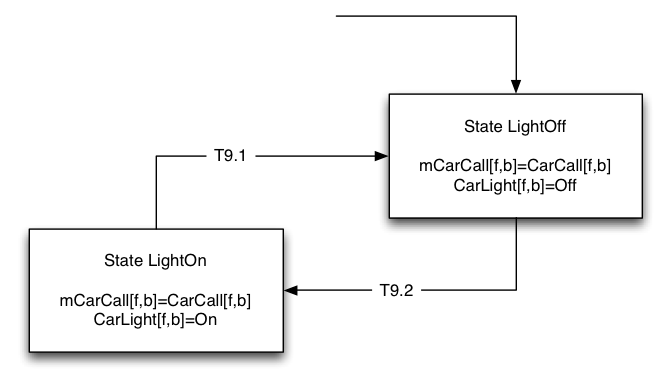
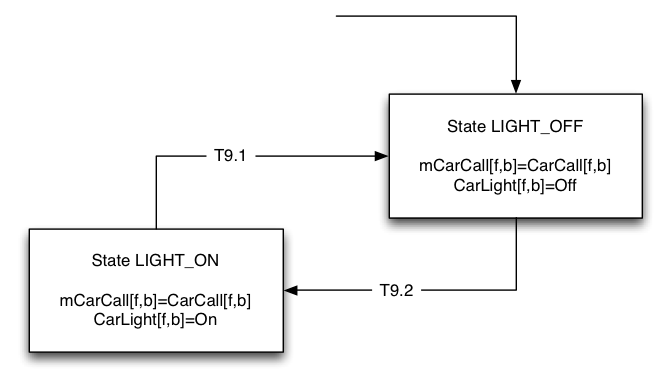
follow naming convention for states

Changed region(s): [[0.1194, 0.6545, 0.3284, 0.7169], [0.6567, 0.3117, 0.8657, 0.3429]]

diff --git a/portfolio/reqs/requirements2.html b/portfolio/reqs/requirements2.html
@@ -1464,11 +1464,11 @@
         </tr>
         <tr>
           <td style="vertical-align: top;">T9.1</td>
-          <td style="vertical-align: top;">mCarCall[f,b]=True</td>
+          <td style="vertical-align: top;">mCarCall[f,b]=False</td>
         </tr>
         <tr>
           <td style="vertical-align: top;">T9.2</td>
-          <td style="vertical-align: top;">mCarCall[f,b]=False</td>
+          <td style="vertical-align: top;">mCarCall[f,b]=True</td>
         </tr>
       </tbody>
     </table>
@@ -1503,7 +1503,7 @@
         <tr>
           <td style="vertical-align: top; background-color: rgb(204,
             204, 204);">State
-            LightOn<br>
+            LIGHT_ON<br>
           </td>
           <td style="vertical-align: top;"><br>
           </td>
@@ -1515,7 +1515,7 @@
         <tr>
           <td style="vertical-align: top; background-color: rgb(204,
             204, 204);">State
-            LightOff<br>
+            LIGHT_OFF<br>
           </td>
           <td style="vertical-align: top;">X<br>
           </td>
